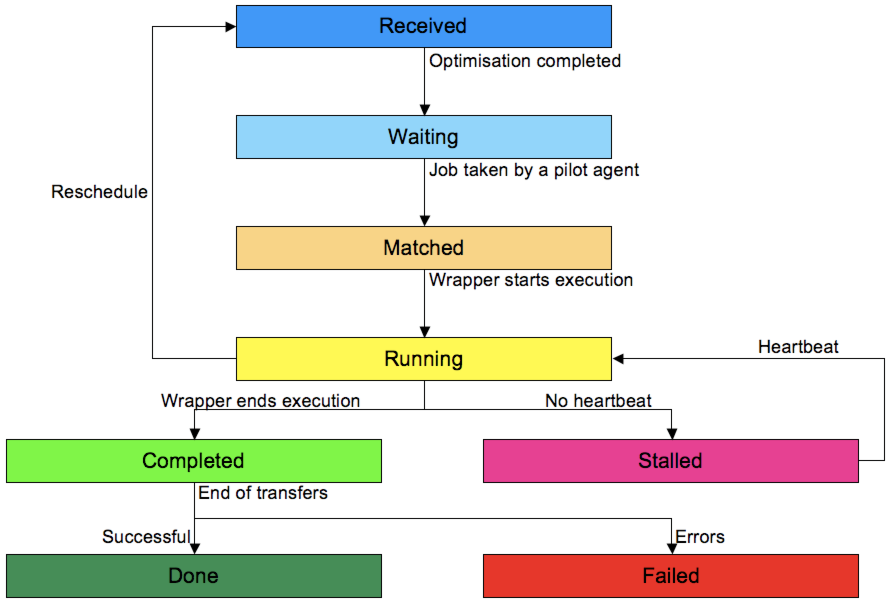
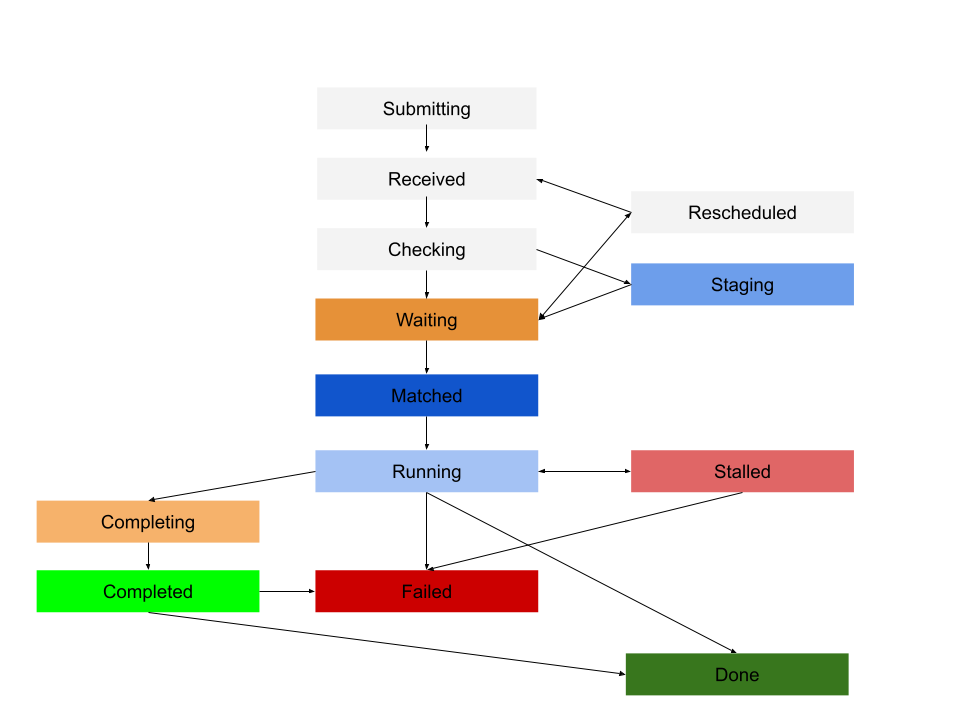
docs: updated image of Jobs SM

diff --git a/docs/source/AdministratorGuide/Systems/WorkloadManagement/Jobs/index.rst b/docs/source/AdministratorGuide/Systems/WorkloadManagement/Jobs/index.rst
@@ -18,16 +18,17 @@ Some definitions for DIRAC jobs:
 Applications properties are reflected in payload properties.
 
 The DIRAC `APIs <http://dirac.readthedocs.io/en/latest/CodeDocumentation/Interfaces/API/API_Module.html>`_ can be used to create and submit jobs.
-Specifically, objects of type `Job <http://dirac.readthedocs.io/en/latest/CodeDocumentation/Interfaces/API/Job.html>`_ represents a job. The API class `Dirac <http://dirac.readthedocs.io/en/latest/CodeDocumentation/Interfaces/API/Dirac.html>`_ and more specifically the call to `submitJob <http://dirac.readthedocs.io/en/latest/CodeDocumentation/Interfaces/API/Dirac.html#DIRAC.Interfaces.API.Dirac.Dirac.submitJob>`_ submits jobs to the DIRAC WMS.
+Specifically, objects of type :py:mod:`~DIRAC.Interfaces.API.Job` represents a job. The API class :py:mod:`~DIRAC.Interfaces.API.Dirac` and more specifically the call to :py:function:`~DIRAC.Interfaces.API.Job.submitJob` submits jobs to the DIRAC WMS.
 
 The job status of a successful job proceeds in the following order:
 
+- Submitting (only for parametric jobs),
 - Received,
 - Checking,
-- Staging,
 - Waiting,
 - Matched,
 - Running,
+- Completing,
 - Completed,
 - Done.
 
